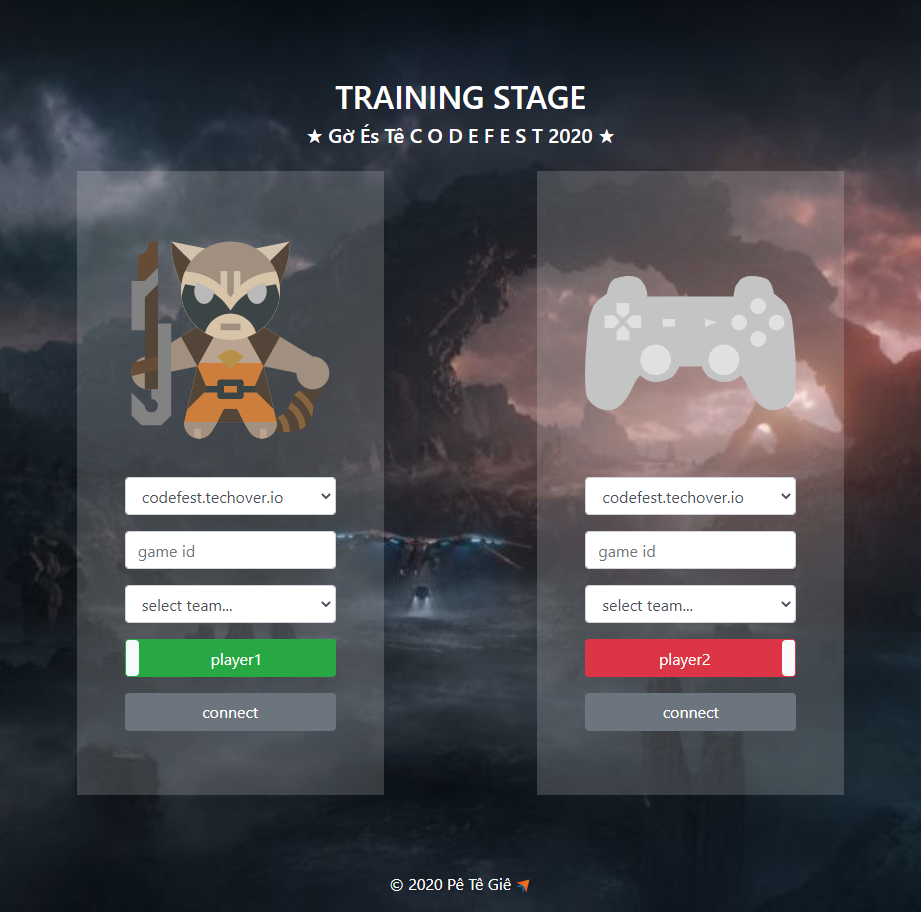
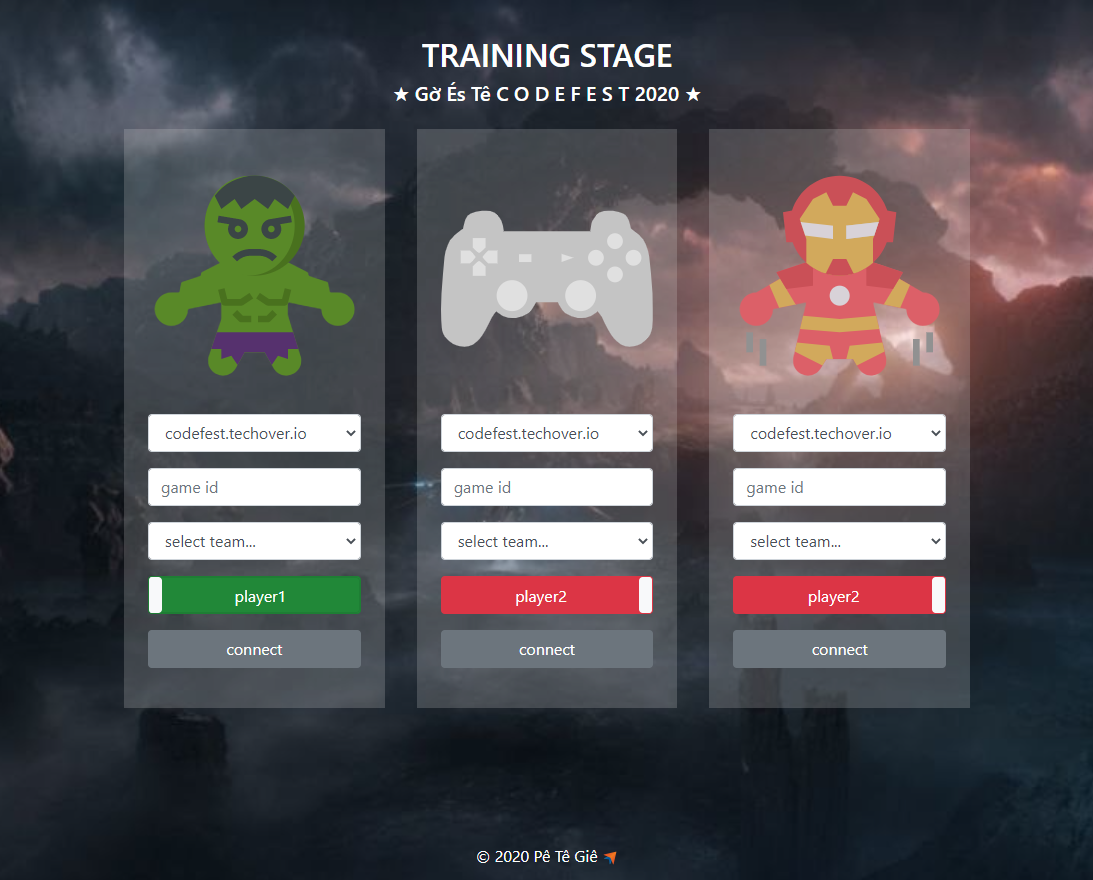
update layout support join game by 2 player

diff --git a/packages/browser/src/Main.js b/packages/browser/src/Main.js
@@ -1,4 +1,5 @@
-import { Fragment, useEffect, useState } from 'react';
+import { useEffect, useState } from 'react';
+
 import Gamepad from 'react-gamepad';
 import throttle from 'lodash.throttle';
 
@@ -32,11 +33,17 @@ const KEYS_MAP_GAMEPAD = {
 };
 
 const Main = () => {
-  const [ botStatus, setBotStatus ] = useState('idle');
-  const [ gamepadStatus, setGamePadStatus ] = useState('idle');
+  const [ status, setStatus ] = useState({
+    green:'idle',
+    gamepad: 'idle',
+    red: 'idle'
+  });
+  const [ ai, setAi ] = useState({
+    green: null,
+    gamepad: null,
+    red: null
+  });
 
-  const [ machine, setMachine ] = useState(null);
-  const [ gamepad, setGamepad ] = useState(null);
   const [ keyStatus, setKeyStatus ] = useState({
     directionUp: false,
     directionDown: false,
@@ -67,8 +74,8 @@ const Main = () => {
       [k]: true
     });
 
-    if (gamepad) {
-      gamepad.drive(KEYS_MAP_COMMAND[lower]);
+    if (ai["gamepad"]) {
+      ai["gamepad"].drive(KEYS_MAP_COMMAND[lower]);
     }
   }
 
@@ -107,42 +114,26 @@ const Main = () => {
     }
   });
 
-  const handleConnect = async (config) => {
+  const handleConnect = async (who, config) => {
+    const Classes = ["green", "red"].includes(who) ? Machine : GamePad;
+
     try {
-      const m = new Machine(config);
+      const m = new Classes(config);
       await m.connect();
-      setMachine(m);
-      setBotStatus('connected');
+      setAi({ ...ai, [who]: m });
+      setStatus({ ...status, [who]: 'connected' });
     } catch (e) {
       console.error(e);
     }
   }
 
-  const handleDisconnect = () => {
+  const handleDisconnect = (who) => {
+    const machine = ai[who];
     if (machine) {
       machine.disconnect();
     }
-    setMachine(null);
-    setBotStatus('idle');
-  }
-
-  const handleGamePadConnect = async (config) => {
-    try {
-      const m = new GamePad(config);
-      await m.connect();
-      setGamepad(m);
-      setGamePadStatus('connected');
-    } catch (e) {
-      console.error(e);
-    }
-  }
-
-  const handleGamePadDisconnect = () => {
-    if (gamepad) {
-      gamepad.disconnect();
-    }
-    setGamepad(null);
-    setGamePadStatus('idle');
+    setAi({ ...ai, [who]: null });
+    setStatus({ ...status, [who]: 'idle' });
   }
 
   const onGamePad = (e) => {
@@ -151,27 +142,31 @@ const Main = () => {
   }
 
   return (
-    <Fragment>
-      <div className="d-flex justify-content-around">
+    <div className="d-flex flex-wrap justify-content-center">
+      <Query
+        onConnect={handleConnect.bind(this, "green")}
+        onDisconnect={handleDisconnect.bind(this, "green")}
+        status={status["green"]}
+      />
+      <Gamepad
+        onButtonChange={onGamePad}
+        onAxisChange={onGamePad}
+      >
         <Query
-          onConnect={handleConnect}
-          onDisconnect={handleDisconnect}
-          status={botStatus}
+          onConnect={handleConnect.bind(this, "gamepad")}
+          onDisconnect={handleDisconnect.bind(this, "gamepad")}
+          status={status["gamepad"]}
+          keyStatus={keyStatus}
+          gamepad={true}
         />
-        <Gamepad
-          onButtonChange={onGamePad}
-          onAxisChange={onGamePad}
-        >
-          <Query
-            onConnect={handleGamePadConnect}
-            onDisconnect={handleGamePadDisconnect}
-            status={gamepadStatus}
-            keyStatus={keyStatus}
-            gamepad={true}
-          />
-        </Gamepad>
-      </div>
-    </Fragment>
+      </Gamepad>
+      <Query
+        onConnect={handleConnect.bind(this, "red")}
+        onDisconnect={handleDisconnect.bind(this, "red")}
+        status={status["red"]}
+        playerRed={true}
+      />
+    </div>
   );
 }
 

diff --git a/packages/browser/src/Query.js b/packages/browser/src/Query.js
@@ -2,14 +2,16 @@ import React, { useState } from 'react';
 import { useForm } from 'react-hook-form';
 import {
   Form,
-  Button
+  Button,
+  Col
 } from 'react-bootstrap';
 import BootstrapSwitchButton from 'bootstrap-switch-button-react';
 
 import Blocking from './Blocking';
 
-import avatar from './assets/rocket_raccoon.svg';
-import gamepadIcon from './assets/gamepad-icon1.png';
+import avatarGreen from './assets/hulk.svg';
+import avatarRed from './assets/ironman.svg';
+// import gamepadIcon from './assets/gamepad-icon1.png';
 import GamePadSvg from './GamePadSvg';
 
 const HOSTS = process.env.REACT_APP_HOSTS.split(",");
@@ -25,9 +27,9 @@ const TEAMS = process.env.REACT_APP_TEAMS.split(";")
   });
 
 const Query = (props) => {
-  const { onConnect, onDisconnect, status, gamepad, keyStatus } = props;
+  const { onConnect, onDisconnect, status, gamepad, keyStatus, playerRed } = props;
 
-  const [ player, setPlayer ] = useState(gamepad);
+  const [ player, setPlayer ] = useState(gamepad || playerRed);
   const [ disablePlayer, setDisablePlayer ] = useState(false);
 
   const { register, handleSubmit } = useForm();
@@ -58,15 +60,19 @@ const Query = (props) => {
   }
 
   return (
-    <div id="main" className="p-4 mt-3 col-md-4">
-      <div className="py-2">
+    <Col
+      className="query p-4 my-3 mx-5"
+      xs={6}
+      md={2}
+    >
+      <div className="py-3">
         {
           gamepad ? (
             <GamePadSvg {...keyStatus}/>
           ) : (
             <img
               className="d-flex mx-auto w-100 avatar"
-              src={gamepad ? gamepadIcon : avatar}
+              src={playerRed ? avatarRed : avatarGreen}
               alt="avatar"
             />
           )
@@ -136,7 +142,7 @@ const Query = (props) => {
           </Button>
         </Form>
       </div>
-    </div>
+    </Col>
   );
 }
 

diff --git a/packages/browser/src/App.css b/packages/browser/src/App.css
@@ -21,7 +21,7 @@ body {
   justify-content: center;
 }
 
-#main {
+.query {
   background-color: rgba(225, 225, 225, 0.2);
 }
 
@@ -30,7 +30,7 @@ body {
 }
 
 .avatar {
-  min-width: 150px;
+  min-width: 80px;
 }
 
 .logo {
@@ -72,5 +72,5 @@ form > *:not(:last-child) {
 
 svg {
   width: 100%;
-  min-width: 150px;
+  min-width: 80px;
 }
